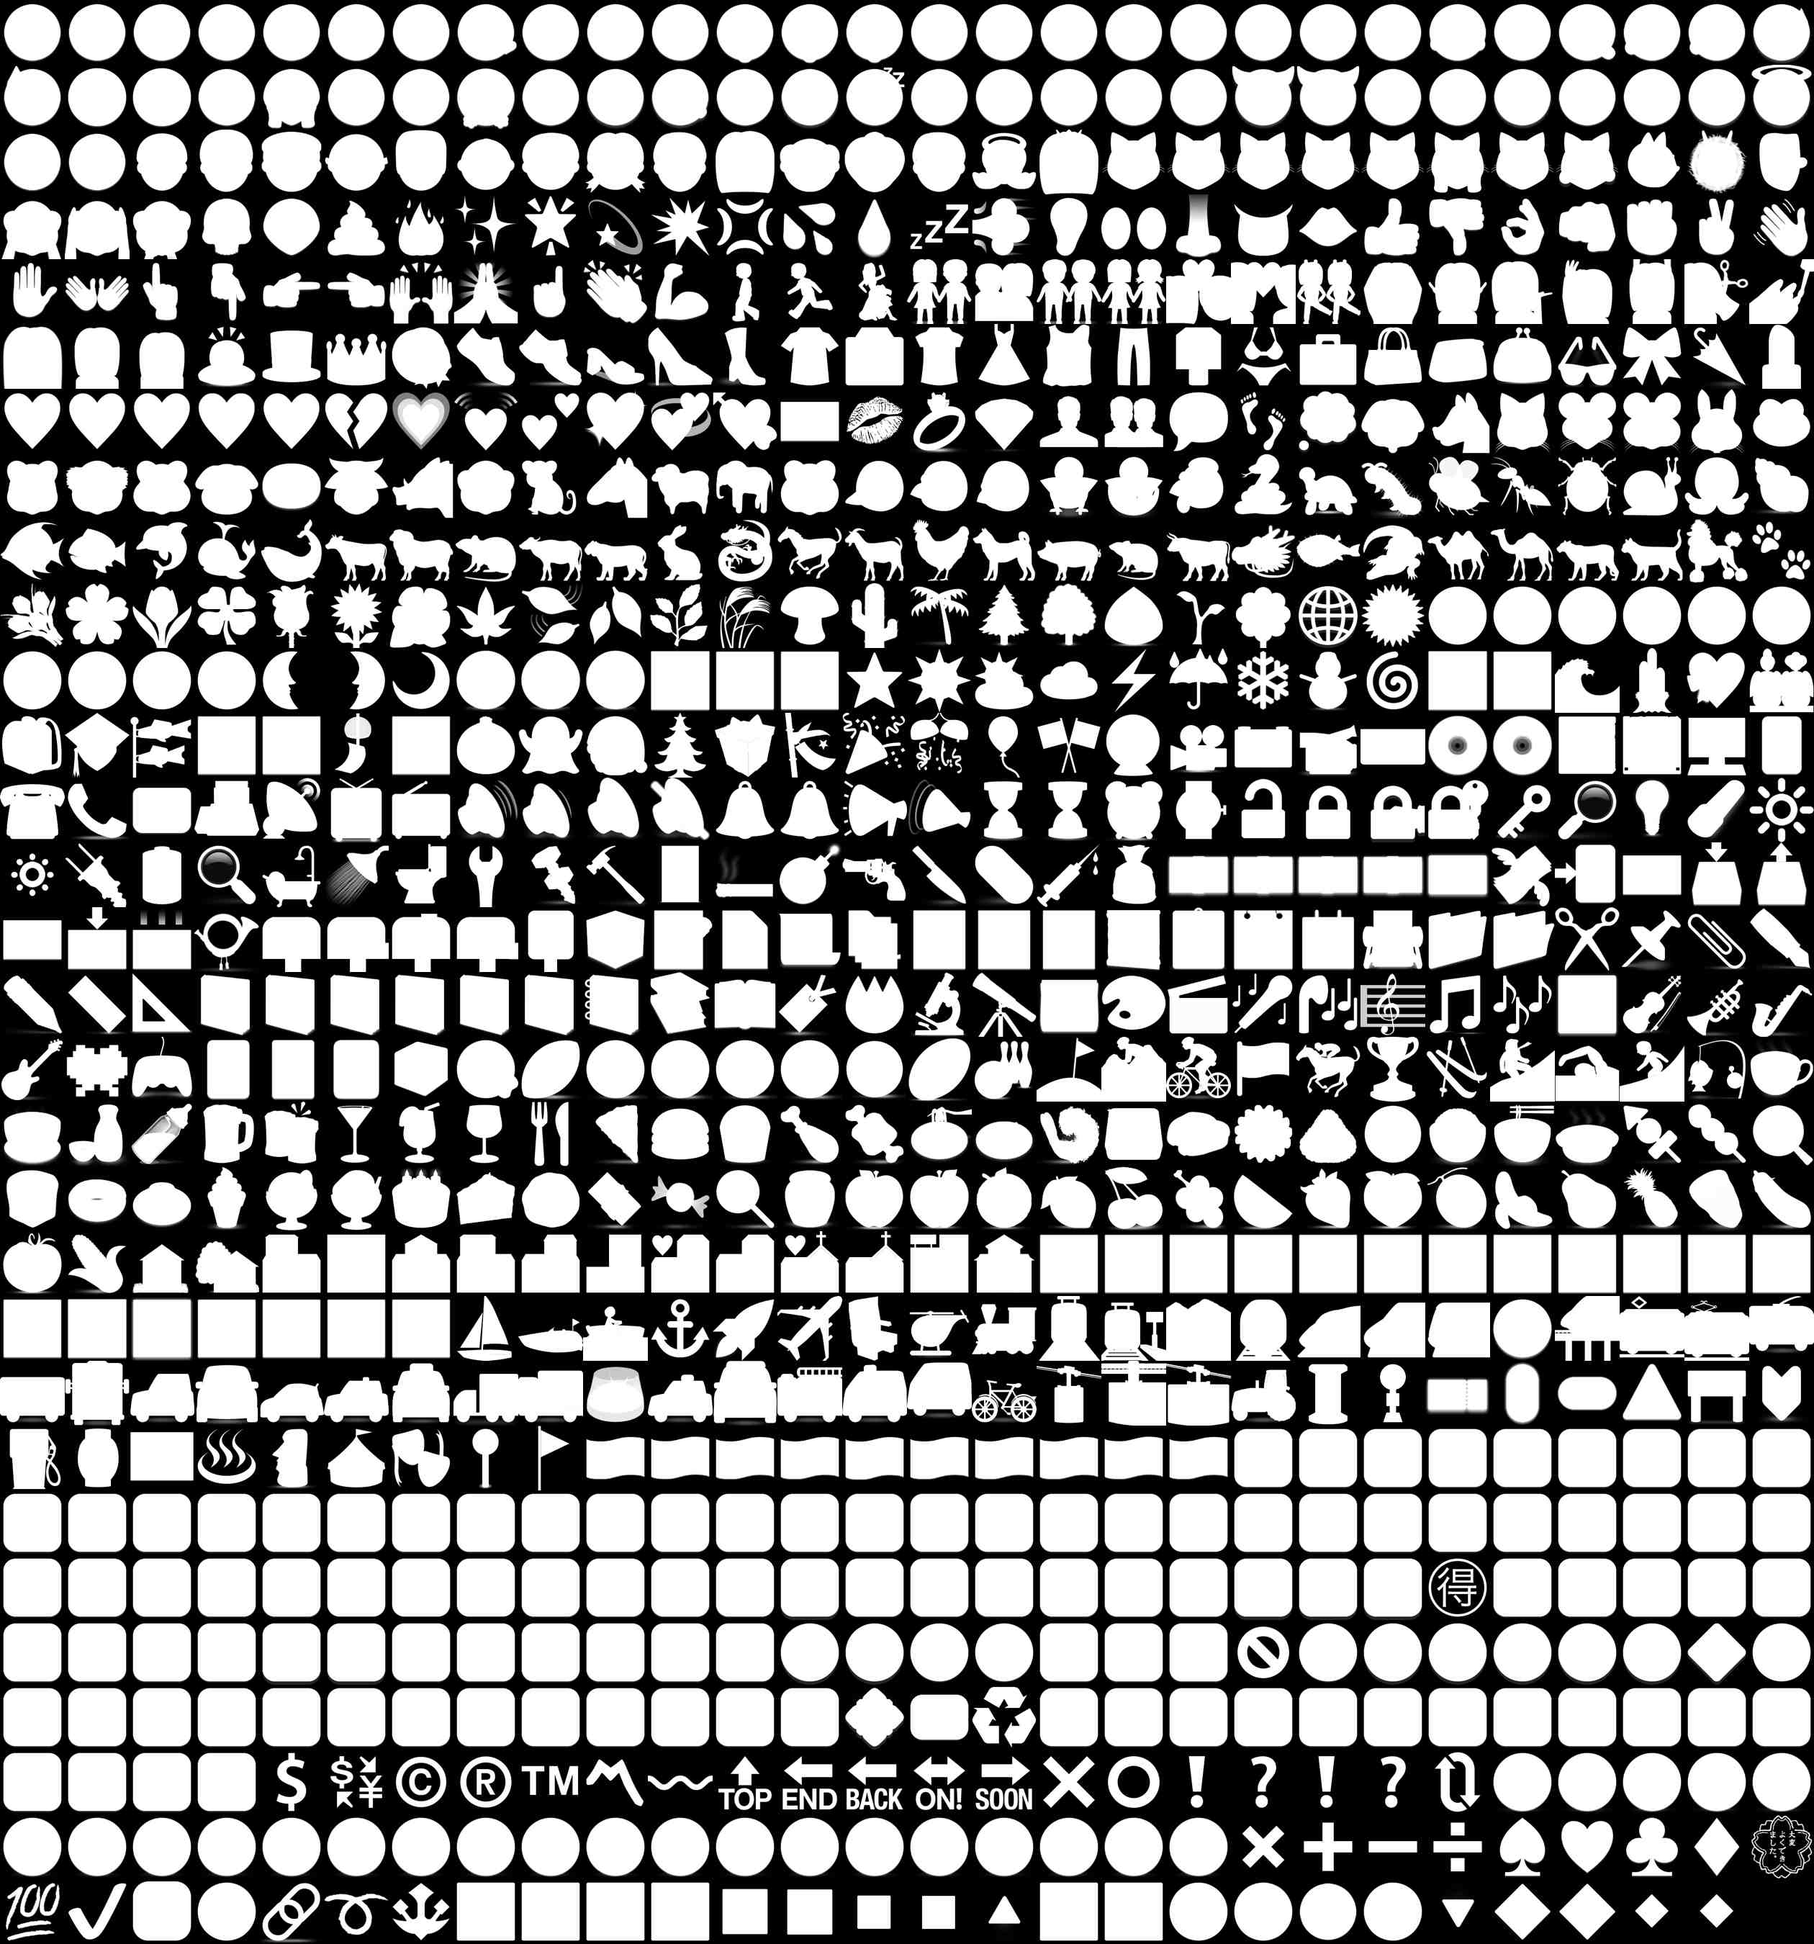
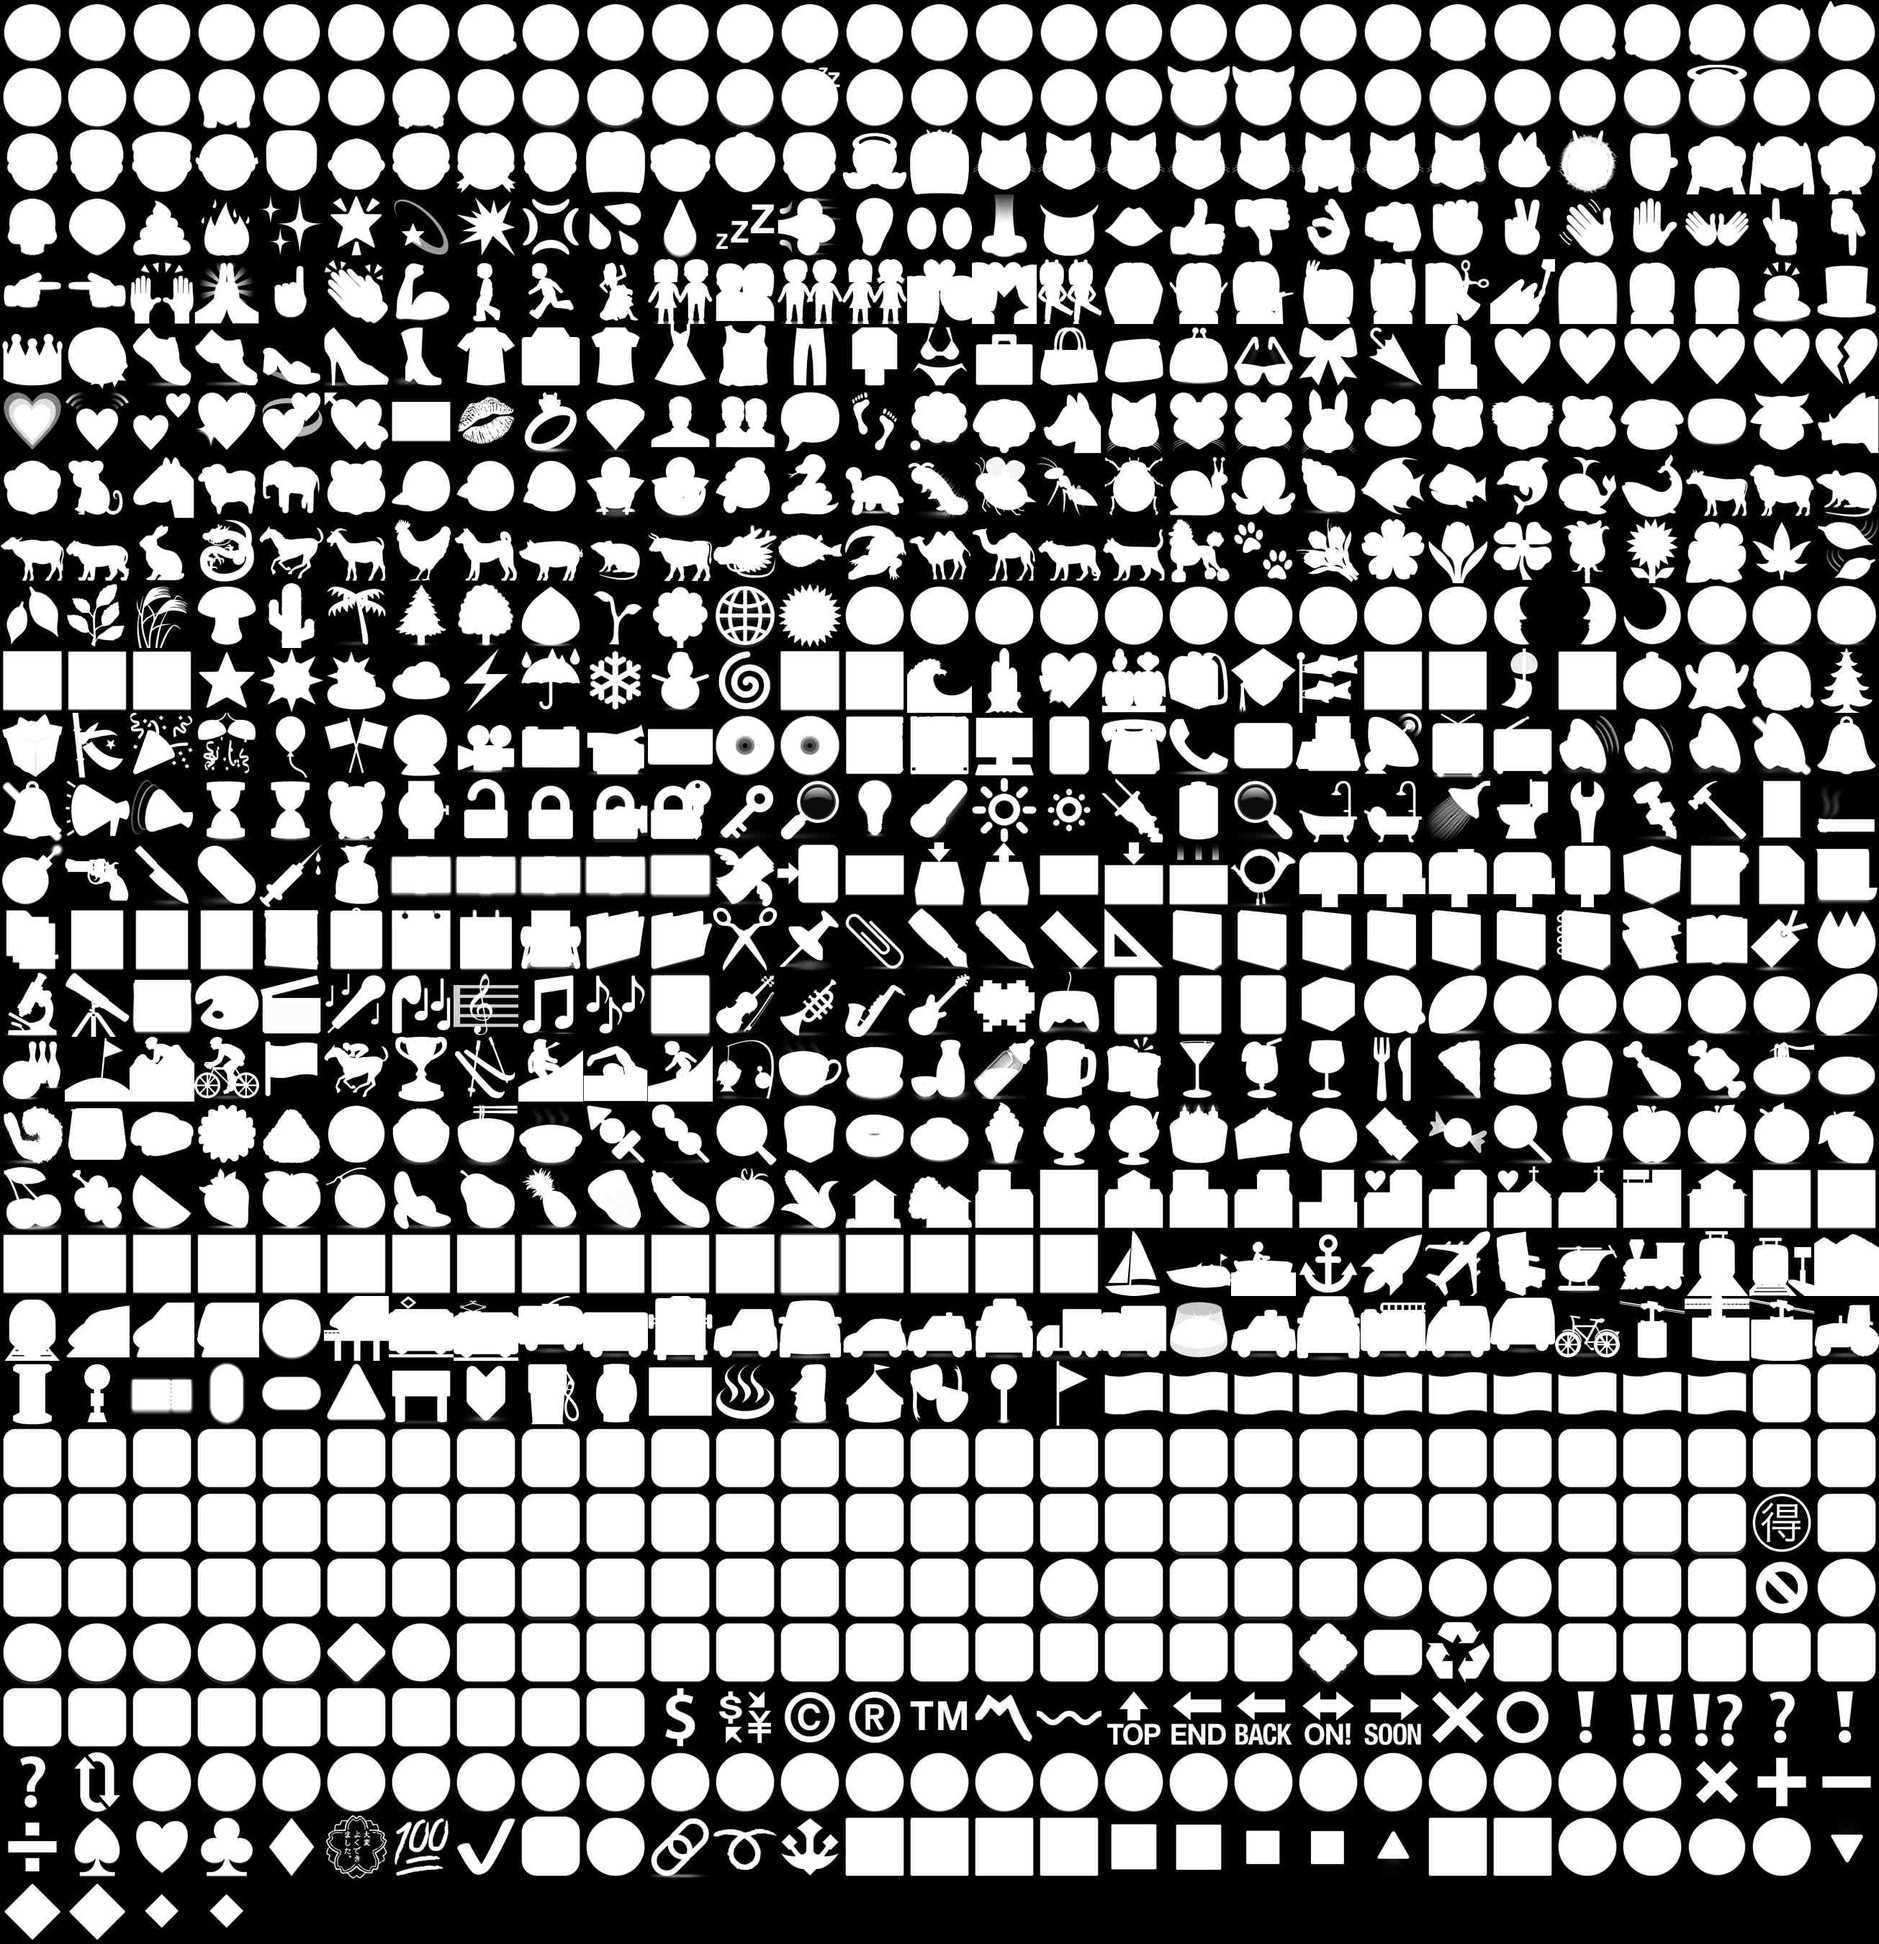
Added missing emoji

diff --git a/TMessagesProj/src/main/java/org/telegram/messenger/Emoji.java b/TMessagesProj/src/main/java/org/telegram/messenger/Emoji.java
@@ -55,7 +55,7 @@ public class Emoji {
     public static  long[][] data = {
             new long[]
                     {},
-            new long[]
+            new long[]//189
                     {0x00000000D83DDE04L, 0x00000000D83DDE03L, 0x00000000D83DDE00L, 0x00000000D83DDE0AL, 0x000000000000263AL, 0x00000000D83DDE09L, 0x00000000D83DDE0DL,
                     0x00000000D83DDE18L, 0x00000000D83DDE1AL, 0x00000000D83DDE17L, 0x00000000D83DDE19L, 0x00000000D83DDE1CL, 0x00000000D83DDE1DL, 0x00000000D83DDE1BL,
                     0x00000000D83DDE33L, 0x00000000D83DDE01L, 0x00000000D83DDE14L, 0x00000000D83DDE0CL, 0x00000000D83DDE12L, 0x00000000D83DDE1EL, 0x00000000D83DDE23L,
@@ -83,7 +83,7 @@ public class Emoji {
                     0x00000000D83DDC9BL, 0x00000000D83DDC99L, 0x00000000D83DDC9CL, 0x00000000D83DDC9AL, 0x0000000000002764L, 0x00000000D83DDC94L, 0x00000000D83DDC97L,
                     0x00000000D83DDC93L, 0x00000000D83DDC95L, 0x00000000D83DDC96L, 0x00000000D83DDC9EL, 0x00000000D83DDC98L, 0x00000000D83DDC8CL, 0x00000000D83DDC8BL,
                     0x00000000D83DDC8DL, 0x00000000D83DDC8EL, 0x00000000D83DDC64L, 0x00000000D83DDC65L, 0x00000000D83DDCACL, 0x00000000D83DDC63L, 0x00000000D83DDCADL},
-            new long[]
+            new long[]//116
                     {0x00000000D83DDC36L, 0x00000000D83DDC3AL, 0x00000000D83DDC31L, 0x00000000D83DDC2DL, 0x00000000D83DDC39L, 0x00000000D83DDC30L, 0x00000000D83DDC38L, 0x00000000D83DDC2FL,
                     0x00000000D83DDC28L, 0x00000000D83DDC3BL, 0x00000000D83DDC37L, 0x00000000D83DDC3DL, 0x00000000D83DDC2EL, 0x00000000D83DDC17L, 0x00000000D83DDC35L,
                     0x00000000D83DDC12L, 0x00000000D83DDC34L, 0x00000000D83DDC11L, 0x00000000D83DDC18L, 0x00000000D83DDC3CL, 0x00000000D83DDC27L, 0x00000000D83DDC26L,
@@ -101,16 +101,16 @@ public class Emoji {
                     0x00000000D83CDF0EL, 0x00000000D83CDF0FL, 0x00000000D83CDF0BL, 0x00000000D83CDF0CL, 0x00000000D83CDF20L, 0x0000000000002B50L, 0x0000000000002600L,
                     0x00000000000026C5L, 0x0000000000002601L, 0x00000000000026A1L, 0x0000000000002614L, 0x0000000000002744L, 0x00000000000026C4L, 0x00000000D83CDF00L,
                     0x00000000D83CDF01L, 0x00000000D83CDF08L, 0x00000000D83CDF0AL},
-            new long[]
+            new long[]//230
                     {0x00000000D83CDF8DL, 0x00000000D83DDC9DL, 0x00000000D83CDF8EL, 0x00000000D83CDF92L, 0x00000000D83CDF93L, 0x00000000D83CDF8FL, 0x00000000D83CDF86L, 0x00000000D83CDF87L,
                     0x00000000D83CDF90L, 0x00000000D83CDF91L, 0x00000000D83CDF83L, 0x00000000D83DDC7BL, 0x00000000D83CDF85L, 0x00000000D83CDF84L, 0x00000000D83CDF81L,
                     0x00000000D83CDF8BL, 0x00000000D83CDF89L, 0x00000000D83CDF8AL, 0x00000000D83CDF88L, 0x00000000D83CDF8CL, 0x00000000D83DDD2EL, 0x00000000D83CDFA5L,
                     0x00000000D83DDCF7L, 0x00000000D83DDCF9L, 0x00000000D83DDCFCL, 0x00000000D83DDCBFL, 0x00000000D83DDCC0L, 0x00000000D83DDCBDL, 0x00000000D83DDCBEL,
                     0x00000000D83DDCBBL, 0x00000000D83DDCF1L, 0x000000000000260EL, 0x00000000D83DDCDEL, 0x00000000D83DDCDFL, 0x00000000D83DDCE0L, 0x00000000D83DDCE1L,
-                    0x00000000D83DDCFAL, 0x00000000D83DDCFBL, 0x00000000D83DDD0AL, 0x00000000D83DDD09L, 0x00000000D83DDD08L, 0x00000000D83DDD07L, 0x00000000D83DDD14L,
-                    0x00000000D83DDD14L, 0x00000000D83DDCE2L, 0x00000000D83DDCE3L, 0x00000000000023F3L, 0x000000000000231BL, 0x00000000000023F0L, 0x000000000000231AL,
+                    0x00000000D83DDCFAL, 0x00000000D83DDCFBL, 0x00000000D83DDD0AL, 0x00000000D83DDD09L, 0x00000000D83DDD08L, 0x00000000D83DDD07L, 0x00000000D83DDD14L, 0x00000000D83DDD15L,
+                    0x00000000D83DDCE2L, 0x00000000D83DDCE3L, 0x00000000000023F3L, 0x000000000000231BL, 0x00000000000023F0L, 0x000000000000231AL,
                     0x00000000D83DDD13L, 0x00000000D83DDD12L, 0x00000000D83DDD0FL, 0x00000000D83DDD10L, 0x00000000D83DDD11L, 0x00000000D83DDD0EL, 0x00000000D83DDCA1L,
-                    0x00000000D83DDD26L, 0x00000000D83DDD06L, 0x00000000D83DDD05L, 0x00000000D83DDD0CL, 0x00000000D83DDD0BL, 0x00000000D83DDD0DL, 0x00000000D83DDEC0L,
+                    0x00000000D83DDD26L, 0x00000000D83DDD06L, 0x00000000D83DDD05L, 0x00000000D83DDD0CL, 0x00000000D83DDD0BL, 0x00000000D83DDD0DL, 0x00000000D83DDEC1L, 0x00000000D83DDEC0L,
                     0x00000000D83DDEBFL, 0x00000000D83DDEBDL, 0x00000000D83DDD27L, 0x00000000D83DDD29L, 0x00000000D83DDD28L, 0x00000000D83DDEAAL, 0x00000000D83DDEACL,
                     0x00000000D83DDCA3L, 0x00000000D83DDD2BL, 0x00000000D83DDD2AL, 0x00000000D83DDC8AL, 0x00000000D83DDC89L, 0x00000000D83DDCB0L, 0x00000000D83DDCB4L,
                     0x00000000D83DDCB5L, 0x00000000D83DDCB7L, 0x00000000D83DDCB6L, 0x00000000D83DDCB3L, 0x00000000D83DDCB8L, 0x00000000D83DDCF2L, 0x00000000D83DDCE7L,
@@ -135,7 +135,7 @@ public class Emoji {
                     0x00000000D83CDF6FL, 0x00000000D83CDF4EL, 0x00000000D83CDF4FL, 0x00000000D83CDF4AL, 0x00000000D83CDF4BL, 0x00000000D83CDF52L, 0x00000000D83CDF47L,
                     0x00000000D83CDF49L, 0x00000000D83CDF53L, 0x00000000D83CDF51L, 0x00000000D83CDF48L, 0x00000000D83CDF4CL, 0x00000000D83CDF50L, 0x00000000D83CDF4DL,
                     0x00000000D83CDF60L, 0x00000000D83CDF46L, 0x00000000D83CDF45L, 0x00000000D83CDF3DL},
-            new long[]
+            new long[]//101
                     {0x00000000D83CDFE0L, 0x00000000D83CDFE1L, 0x00000000D83CDFEBL, 0x00000000D83CDFE2L, 0x00000000D83CDFE3L, 0x00000000D83CDFE5L, 0x00000000D83CDFE6L, 0x00000000D83CDFEAL,
                     0x00000000D83CDFE9L, 0x00000000D83CDFE8L, 0x00000000D83DDC92L, 0x00000000000026EAL, 0x00000000D83CDFECL, 0x00000000D83CDFE4L, 0x00000000D83CDF07L,
                     0x00000000D83CDF06L, 0x00000000D83CDFEFL, 0x00000000D83CDFF0L, 0x00000000000026FAL, 0x00000000D83CDFEDL, 0x00000000D83DDDFCL, 0x00000000D83DDDFEL,
@@ -151,7 +151,7 @@ public class Emoji {
                     0x0000000000002668L, 0x00000000D83DDDFFL, 0x00000000D83CDFAAL, 0x00000000D83CDFADL, 0x00000000D83DDCCDL, 0x00000000D83DDEA9L, 0xD83CDDEFD83CDDF5L,
                     0xD83CDDF0D83CDDF7L, 0xD83CDDE9D83CDDEAL, 0xD83CDDE8D83CDDF3L, 0xD83CDDFAD83CDDF8L, 0xD83CDDEBD83CDDF7L, 0xD83CDDEAD83CDDF8L, 0xD83CDDEED83CDDF9L,
                     0xD83CDDF7D83CDDFAL, 0xD83CDDECD83CDDE7L},
-            new long[]
+            new long[]//209
                     {0x00000000003120E3L, 0x00000000003220E3L, 0x00000000003320E3L, 0x00000000003420E3L, 0x00000000003520E3L, 0x00000000003620E3L, 0x00000000003720E3L, 0x00000000003820E3L,
                     0x00000000003920E3L, 0x00000000003020E3L, 0x00000000D83DDD1FL, 0x00000000D83DDD22L, 0x00000000002320E3L, 0x00000000D83DDD23L, 0x0000000000002B06L,
                     0x0000000000002B07L, 0x0000000000002B05L, 0x00000000000027A1L, 0x00000000D83DDD20L, 0x00000000D83DDD21L, 0x00000000D83DDD24L, 0x0000000000002197L,
@@ -160,9 +160,11 @@ public class Emoji {
                     0x00000000000023E9L, 0x00000000000023EBL, 0x00000000000023ECL, 0x0000000000002935L, 0x0000000000002934L, 0x00000000D83CDD97L, 0x00000000D83DDD00L,
                     0x00000000D83DDD01L, 0x00000000D83DDD02L, 0x00000000D83CDD95L, 0x00000000D83CDD99L, 0x00000000D83CDD92L, 0x00000000D83CDD93L, 0x00000000D83CDD96L,
                     0x00000000D83DDCF6L, 0x00000000D83CDFA6L, 0x00000000D83CDE01L, 0x00000000D83CDE2FL, 0x00000000D83CDE33L, 0x00000000D83CDE35L, 0x00000000D83CDE32L,
-                    0x00000000D83CDE34L, 0x00000000D83CDE32L, 0x00000000D83CDE50L, 0x00000000D83CDE39L, 0x00000000D83CDE3AL, 0x00000000D83CDE36L, 0x00000000D83CDE1AL,
+                    0x00000000D83CDE34L, 0x00000000D83CDE50L, 0x00000000D83CDE39L, 0x00000000D83CDE3AL, 0x00000000D83CDE36L, 0x00000000D83CDE1AL,
                     0x00000000D83DDEBBL, 0x00000000D83DDEB9L, 0x00000000D83DDEBAL, 0x00000000D83DDEBCL, 0x00000000D83DDEBEL, 0x00000000D83DDEB0L, 0x00000000D83DDEAEL,
                     0x00000000D83CDD7FL, 0x000000000000267FL, 0x00000000D83DDEADL, 0x00000000D83CDE37L, 0x00000000D83CDE38L, 0x00000000D83CDE02L, 0x00000000000024C2L,
+                    0x00000000D83DDEC2L, 0x00000000D83DDEC4L, 0x00000000D83DDEC5L, 0x00000000D83DDEC3L,
+
                     0x00000000D83CDE51L, 0x0000000000003299L, 0x0000000000003297L, 0x00000000D83CDD91L, 0x00000000D83CDD98L, 0x00000000D83CDD94L, 0x00000000D83DDEABL,
                     0x00000000D83DDD1EL, 0x00000000D83DDCF5L, 0x00000000D83DDEAFL, 0x00000000D83DDEB1L, 0x00000000D83DDEB3L, 0x00000000D83DDEB7L, 0x00000000D83DDEB8L,
                     0x00000000000026D4L, 0x0000000000002733L, 0x0000000000002747L, 0x000000000000274EL, 0x0000000000002705L, 0x0000000000002734L, 0x00000000D83DDC9FL,
@@ -171,7 +173,8 @@ public class Emoji {
                     0x000000000000264CL, 0x000000000000264DL, 0x000000000000264EL, 0x000000000000264FL, 0x0000000000002650L, 0x0000000000002651L, 0x0000000000002652L,
                     0x0000000000002653L, 0x00000000000026CEL, 0x00000000D83DDD2FL, 0x00000000D83CDFE7L, 0x00000000D83DDCB9L, 0x00000000D83DDCB2L, 0x00000000D83DDCB1L,
                     0x00000000000000A9L, 0x00000000000000AEL, 0x0000000000002122L, 0x000000000000303DL, 0x0000000000003030L, 0x00000000D83DDD1DL, 0x00000000D83DDD1AL,
-                    0x00000000D83DDD19L, 0x00000000D83DDD1BL, 0x00000000D83DDD1CL, 0x000000000000274CL, 0x0000000000002B55L, 0x0000000000002757L, 0x0000000000002753L,
+                    0x00000000D83DDD19L, 0x00000000D83DDD1BL, 0x00000000D83DDD1CL, 0x000000000000274CL, 0x0000000000002B55L, 0x0000000000002757L, 0x000000000000203CL,
+    0x0000000000002049L, 0x0000000000002753L,
                     0x0000000000002755L, 0x0000000000002754L, 0x00000000D83DDD03L, 0x00000000D83DDD5BL, 0x00000000D83DDD67L, 0x00000000D83DDD50L, 0x00000000D83DDD5CL,
                     0x00000000D83DDD51L, 0x00000000D83DDD5DL, 0x00000000D83DDD52L, 0x00000000D83DDD5EL, 0x00000000D83DDD53L, 0x00000000D83DDD5FL, 0x00000000D83DDD54L,
                     0x00000000D83DDD60L, 0x00000000D83DDD55L, 0x00000000D83DDD56L, 0x00000000D83DDD57L, 0x00000000D83DDD58L, 0x00000000D83DDD59L, 0x00000000D83DDD5AL,
@@ -199,7 +202,7 @@ public class Emoji {
         int num = 0;
 		for (int j = 1; j < data.length; j++) {
 			for (int i = 0; i < data[j].length; i++) {
-				Rect rect = new Rect((num % 28) * imgSize, (num / 28) * imgSize, (num % 28 + 1) * imgSize, (num / 28 + 1) * imgSize);
+				Rect rect = new Rect((num % 29) * imgSize, (num / 29) * imgSize, (num % 29 + 1) * imgSize, (num / 29 + 1) * imgSize);
 				rects.put(data[j][i], new DrawableInfo(rect));
                 num++;
 			}
@@ -296,9 +299,6 @@ public class Emoji {
 		}
 		EmojiDrawable ed = new EmojiDrawable(info);
 		ed.setBounds(0, 0, drawImgSize, drawImgSize);
-		if (emojiBmp == null) {
-            loadEmojiAsync();
-        }
 		return ed;
 	}
 	
@@ -329,6 +329,7 @@ public class Emoji {
 		@Override
 		public void draw(Canvas canvas) {
 			if (emojiBmp == null) {
+                loadEmojiAsync();
 				canvas.drawRect(getBounds(), placeholderPaint);
 				return;
 			}
